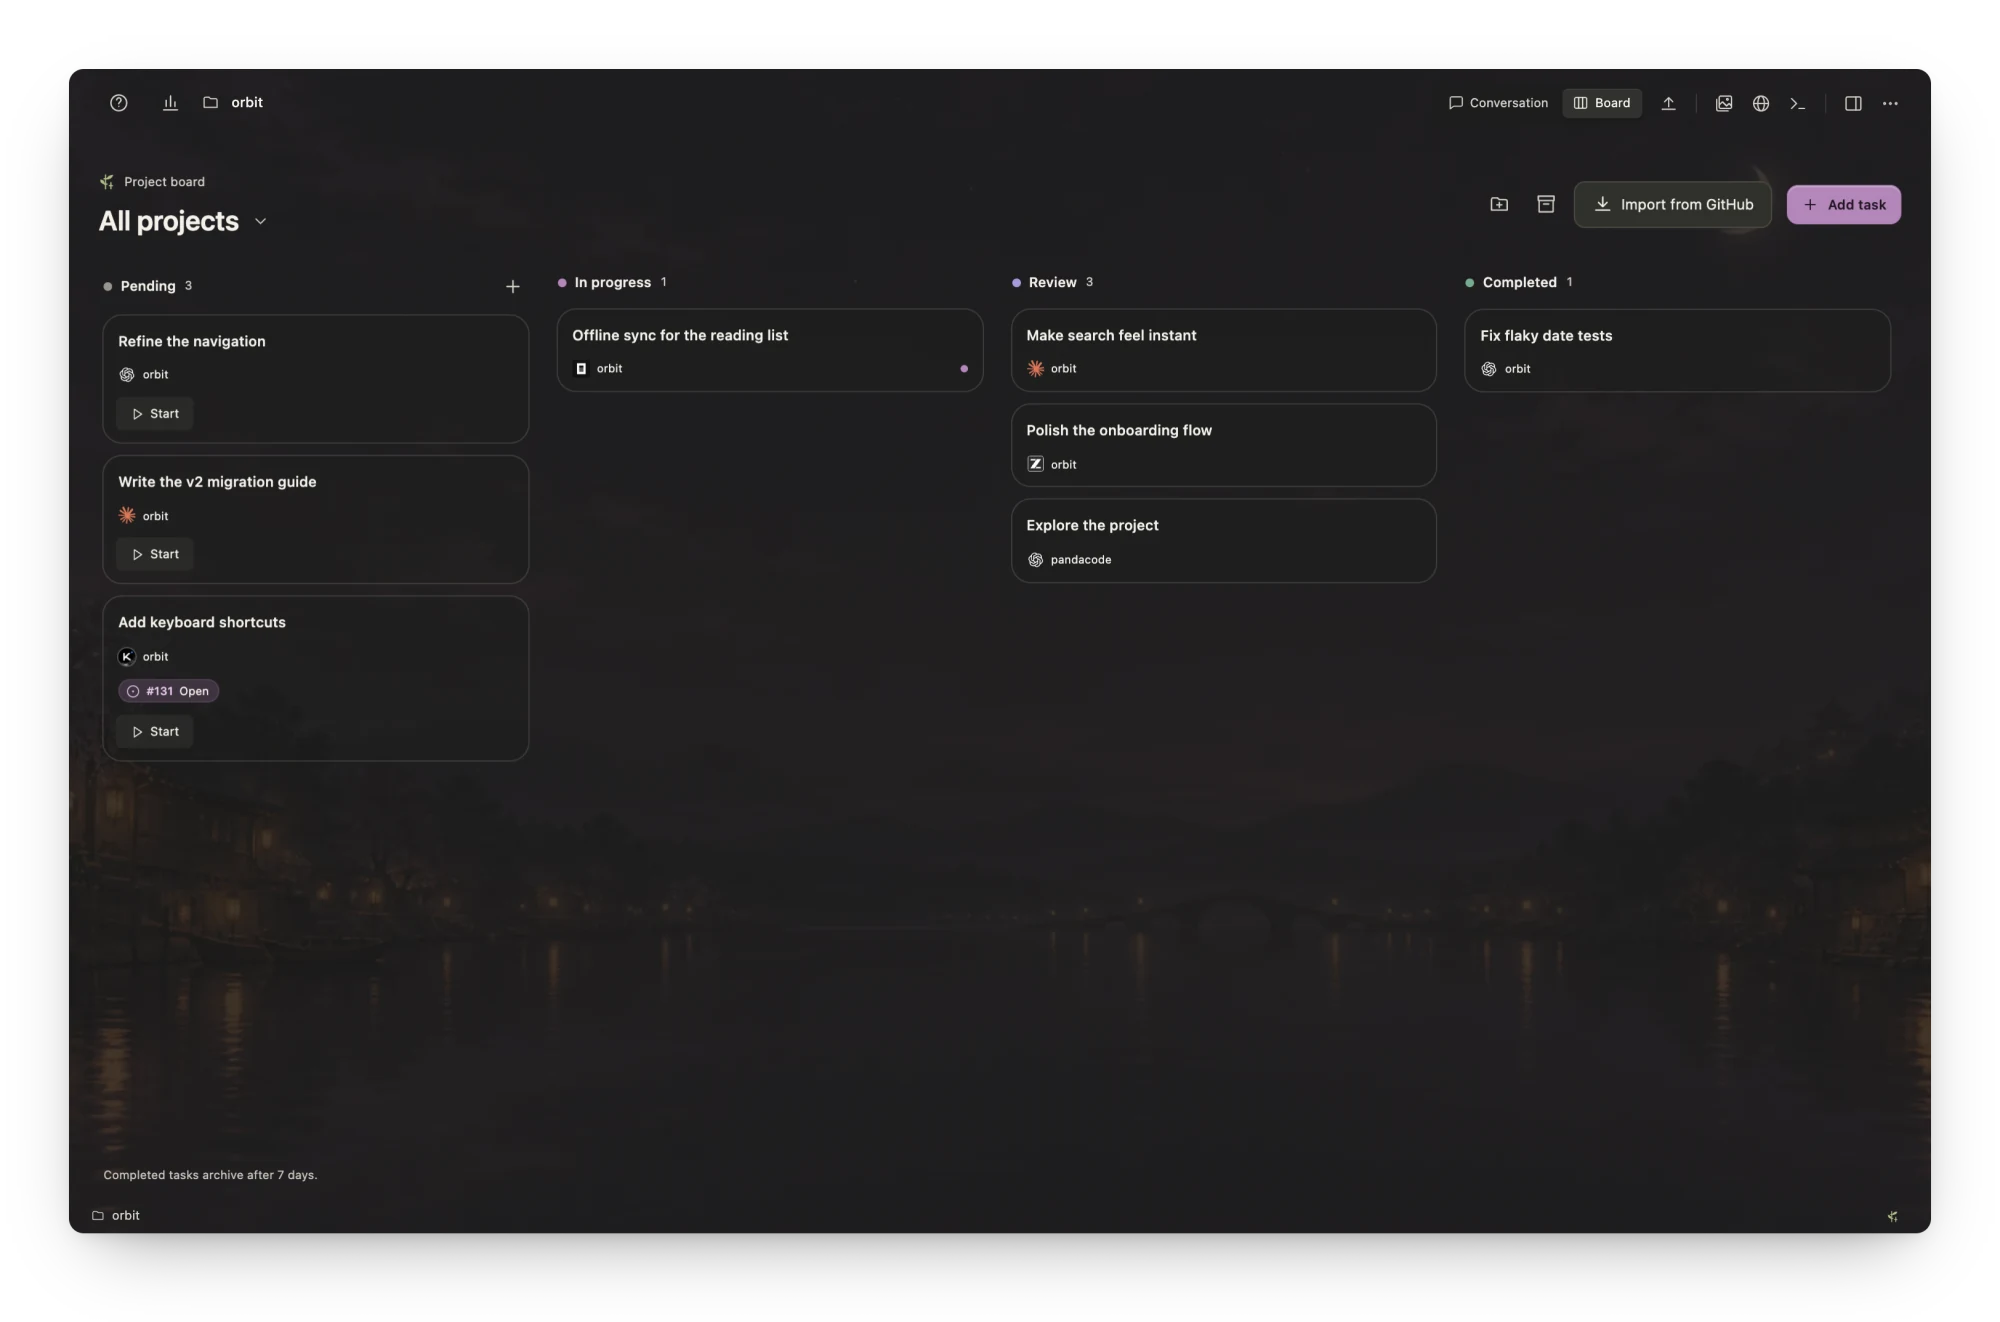
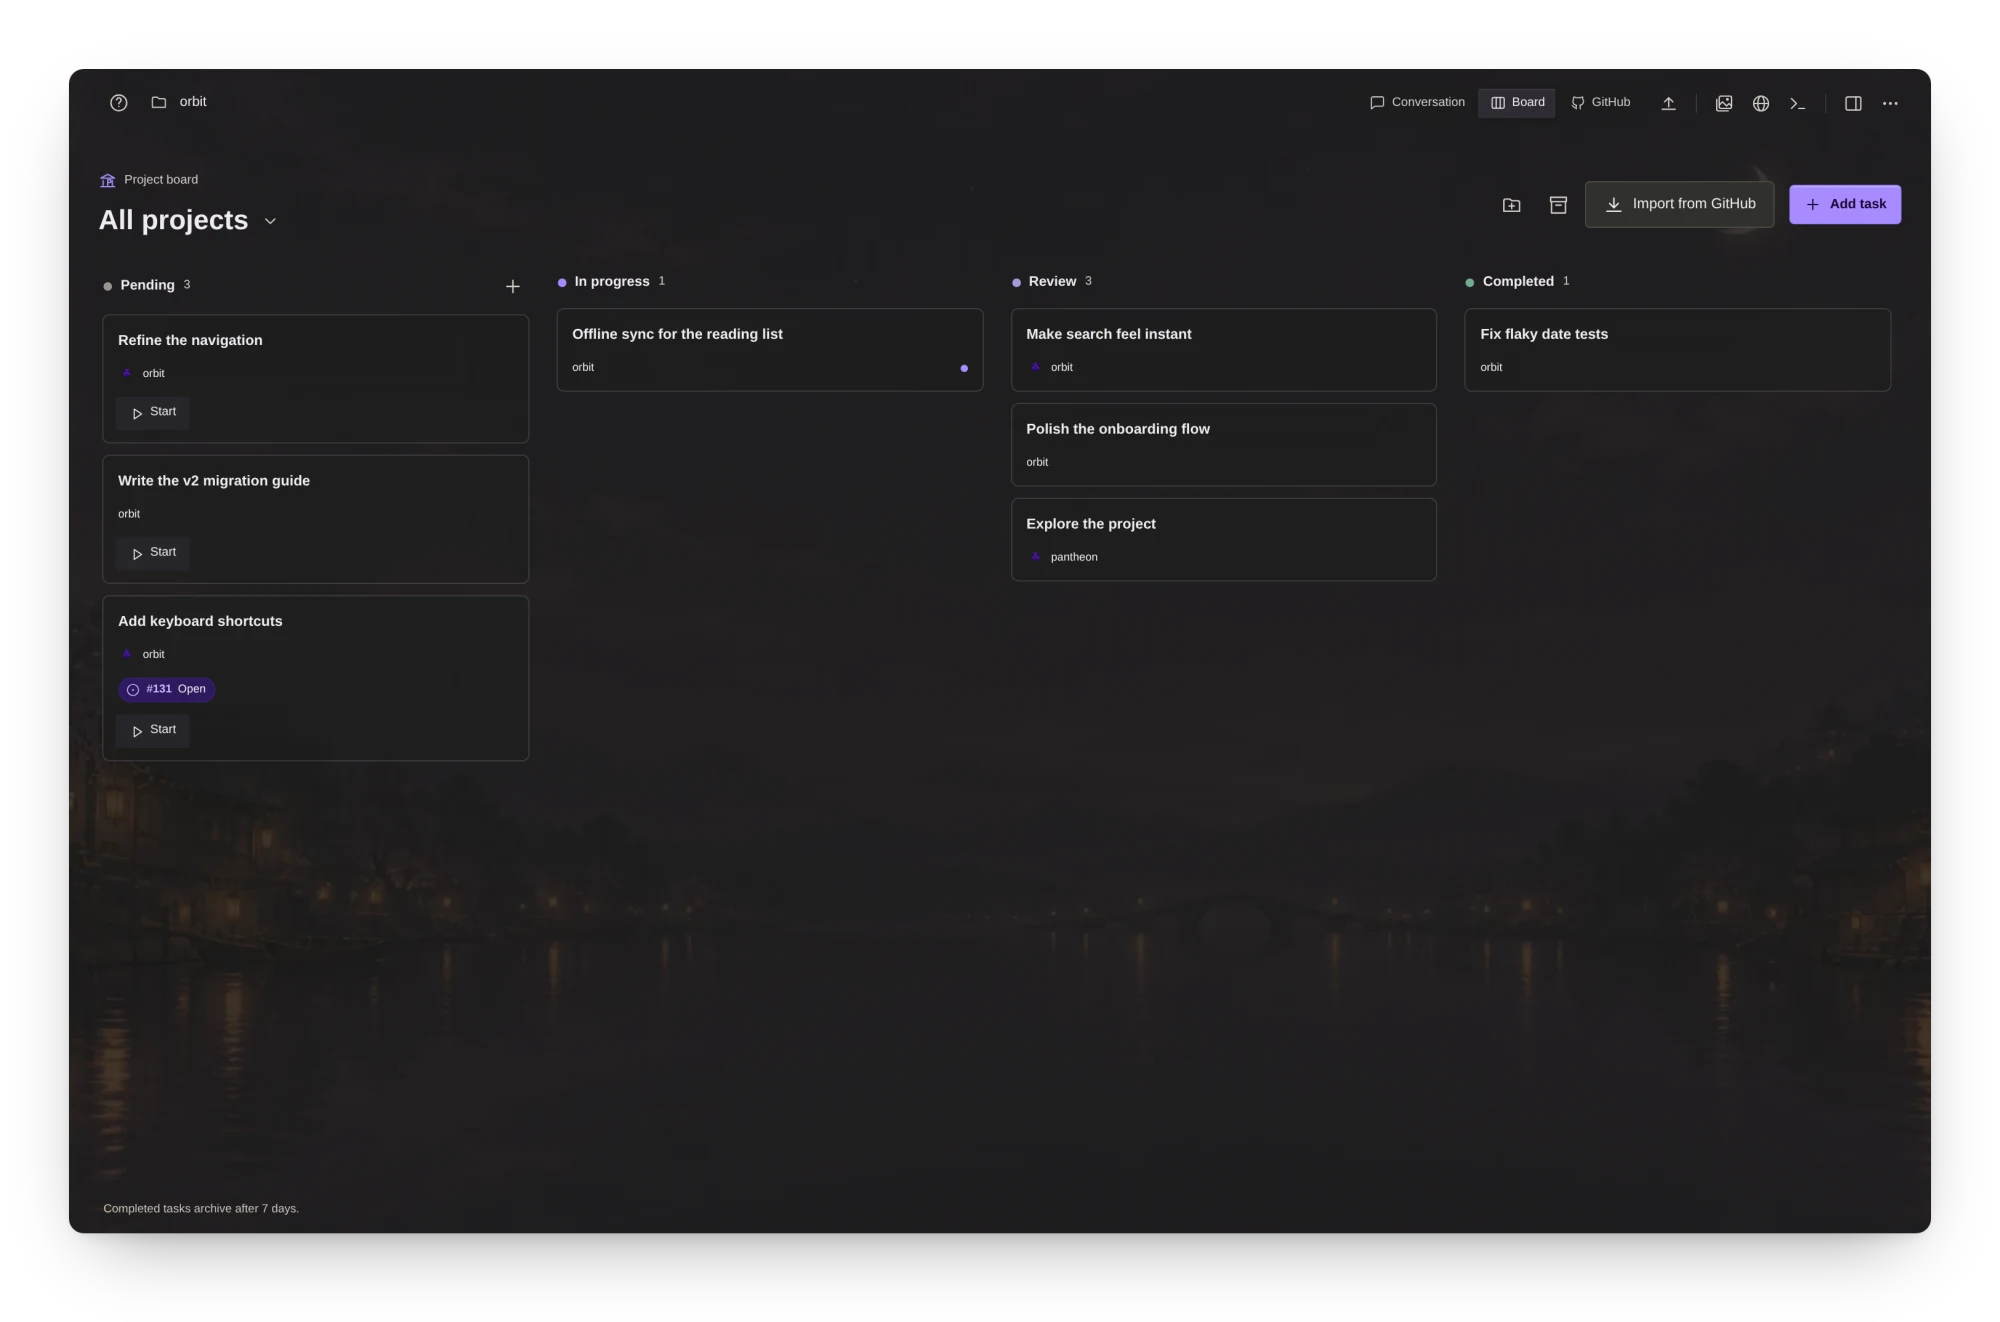
add desktop screenshots to readme

diff --git a/README.md b/README.md
@@ -23,6 +23,12 @@ The terminal app is a full screen interface, not a chat box in a shell. Pick a p
 |:---:|:---:|:---:|
 | Setup chooser | Provider picker | Model picker |
 
+Pantheon Desktop puts the same agent in a workspace with a task board, a file view and a diff review.
+
+| [![Pantheon Desktop conversation](desktop/docs/screenshots/conversation.webp)](desktop/docs/screenshots/conversation.webp) | [![Pantheon Desktop board](desktop/docs/screenshots/board.webp)](desktop/docs/screenshots/board.webp) |
+|:---:|:---:|
+| Desktop conversation | Task board |
+
 ## Who it is for
 
 Pantheon is not only a coding tool. Four groups tend to recognize themselves in it:
